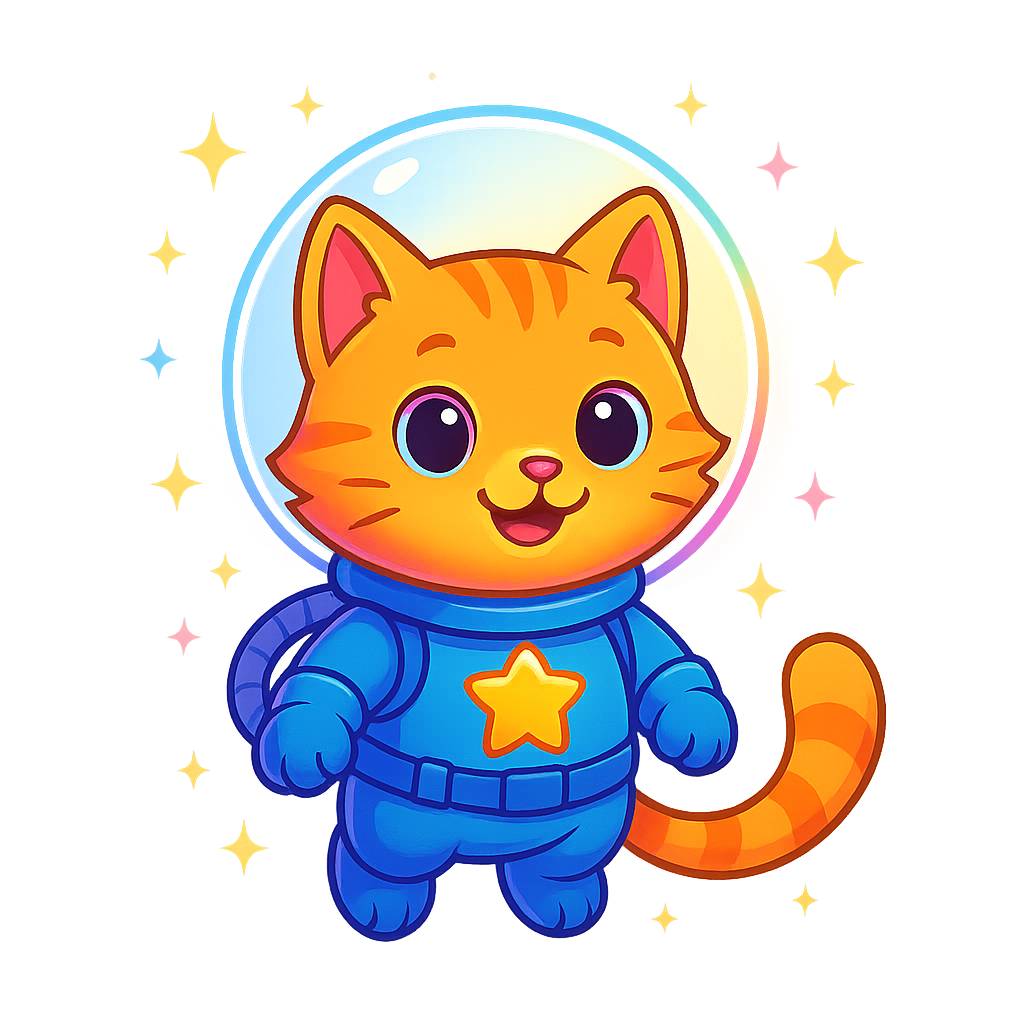
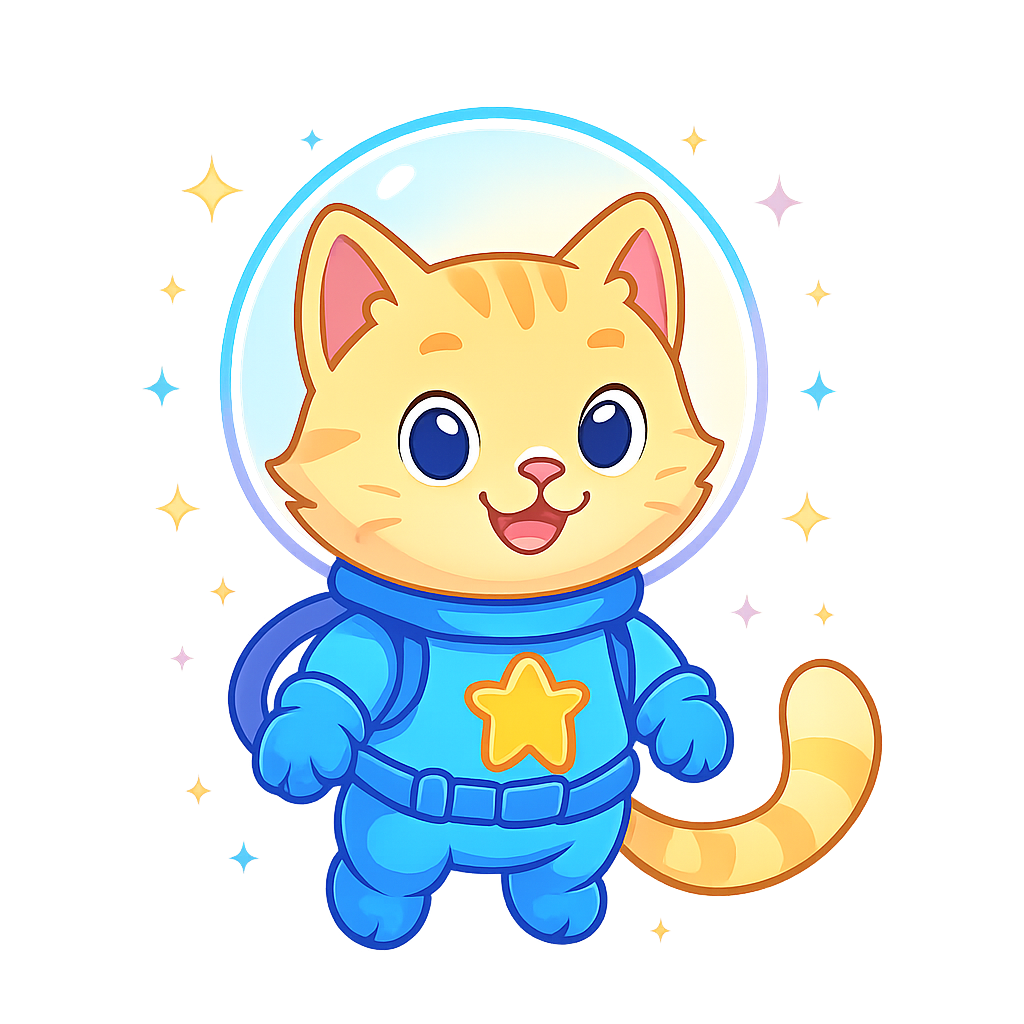
визуал меню

diff --git a/index.html b/index.html
@@ -35,7 +35,7 @@
 
     <!-- Контент меню -->
     <div class="menu-content">
-        <img src="img/cat.png" alt="Космический кот" class="cat-hero">
+        <img src="img/cat2.png" alt="Космический кот" class="cat-hero">
         
         <!-- Кнопки меню -->
         <div class="menu-buttons">
@@ -45,10 +45,10 @@
                 <span class="btn-pulse"></span>
             </button>
             
-            <button class="menu-btn">
+            <!-- <button class="menu-btn">
                 <span class="btn-ico">🎯</span>
                 <span class="btn-text">Миссии</span>
-            </button>
+            </button> -->
             
             <button class="menu-btn">
                 <span class="btn-ico">📖</span>

diff --git a/style.css b/style.css
@@ -452,7 +452,7 @@ body {
 }
 
 .title-word.cosmic {
-    color: #4cc9f0;
+    color: #72d4f9;
     text-shadow: 
         0 0 1px #4cc9f0,
         0 0 30px #4cc9f0,
@@ -460,11 +460,11 @@ body {
 }
 
 .title-word.cat {
-    color: #ff9966;
+    color: #fec72d;
     text-shadow: 
-        0 0 15px #ff5e62,
-        0 0 30px #ff5e62,
-        0 0 45px #ff5e62;
+        0 0 15px #fd7708,
+        0 0 30px #fd7708,
+        0 0 45px #fd7708;
     transform: translateX(20px);
     animation: text-glitch-cat 8s infinite alternate-reverse;
 }
@@ -514,6 +514,7 @@ body {
 /* Кот-герой */
 .cat-hero {
     position: absolute;
+    bottom: 5%;
     right: 10%;
     width: 450px;
     height: auto;
